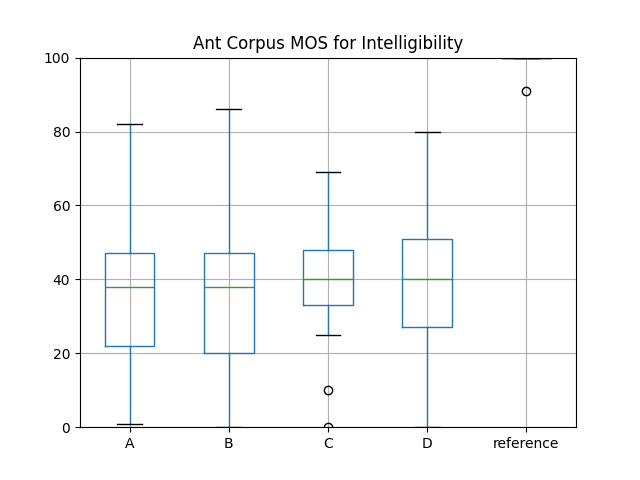
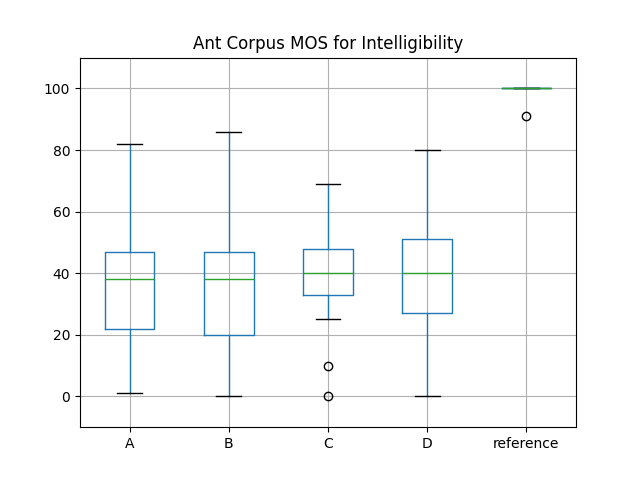
make_graphs: removed breakpoint, adjusted graph to emphasize ref.

diff --git a/scripts/make_graphs.py b/scripts/make_graphs.py
@@ -20,7 +20,6 @@ names = ['Ant', 'James', 'Megan']
 trial_results: list[pd.DataFrame] = []
 for t in range(0,3):
     trial_df = df.query(f'trial_id == "trial{trialgroups[t][0]}" | trial_id == "trial{trialgroups[t][1]}" | trial_id == "trial{trialgroups[t][2]}"')
-    breakpoint()
     newdf = pd.DataFrame()
     for ref in audiorefs:
         ref_results = trial_df.query(f'rating_stimulus == "{ref}"')['rating_score'].values
@@ -28,7 +27,7 @@ for t in range(0,3):
     trial_results.append(newdf)
     plt.figure()
     boxplot = trial_results[t].boxplot(column=audiorefs)
-    plt.ylim([0, 100])
+    plt.ylim([-10, 110])
     plt.title(f'{names[t]} Corpus MOS for Intelligibility')
     plt.savefig(f'./group{t}_results.png')
 
